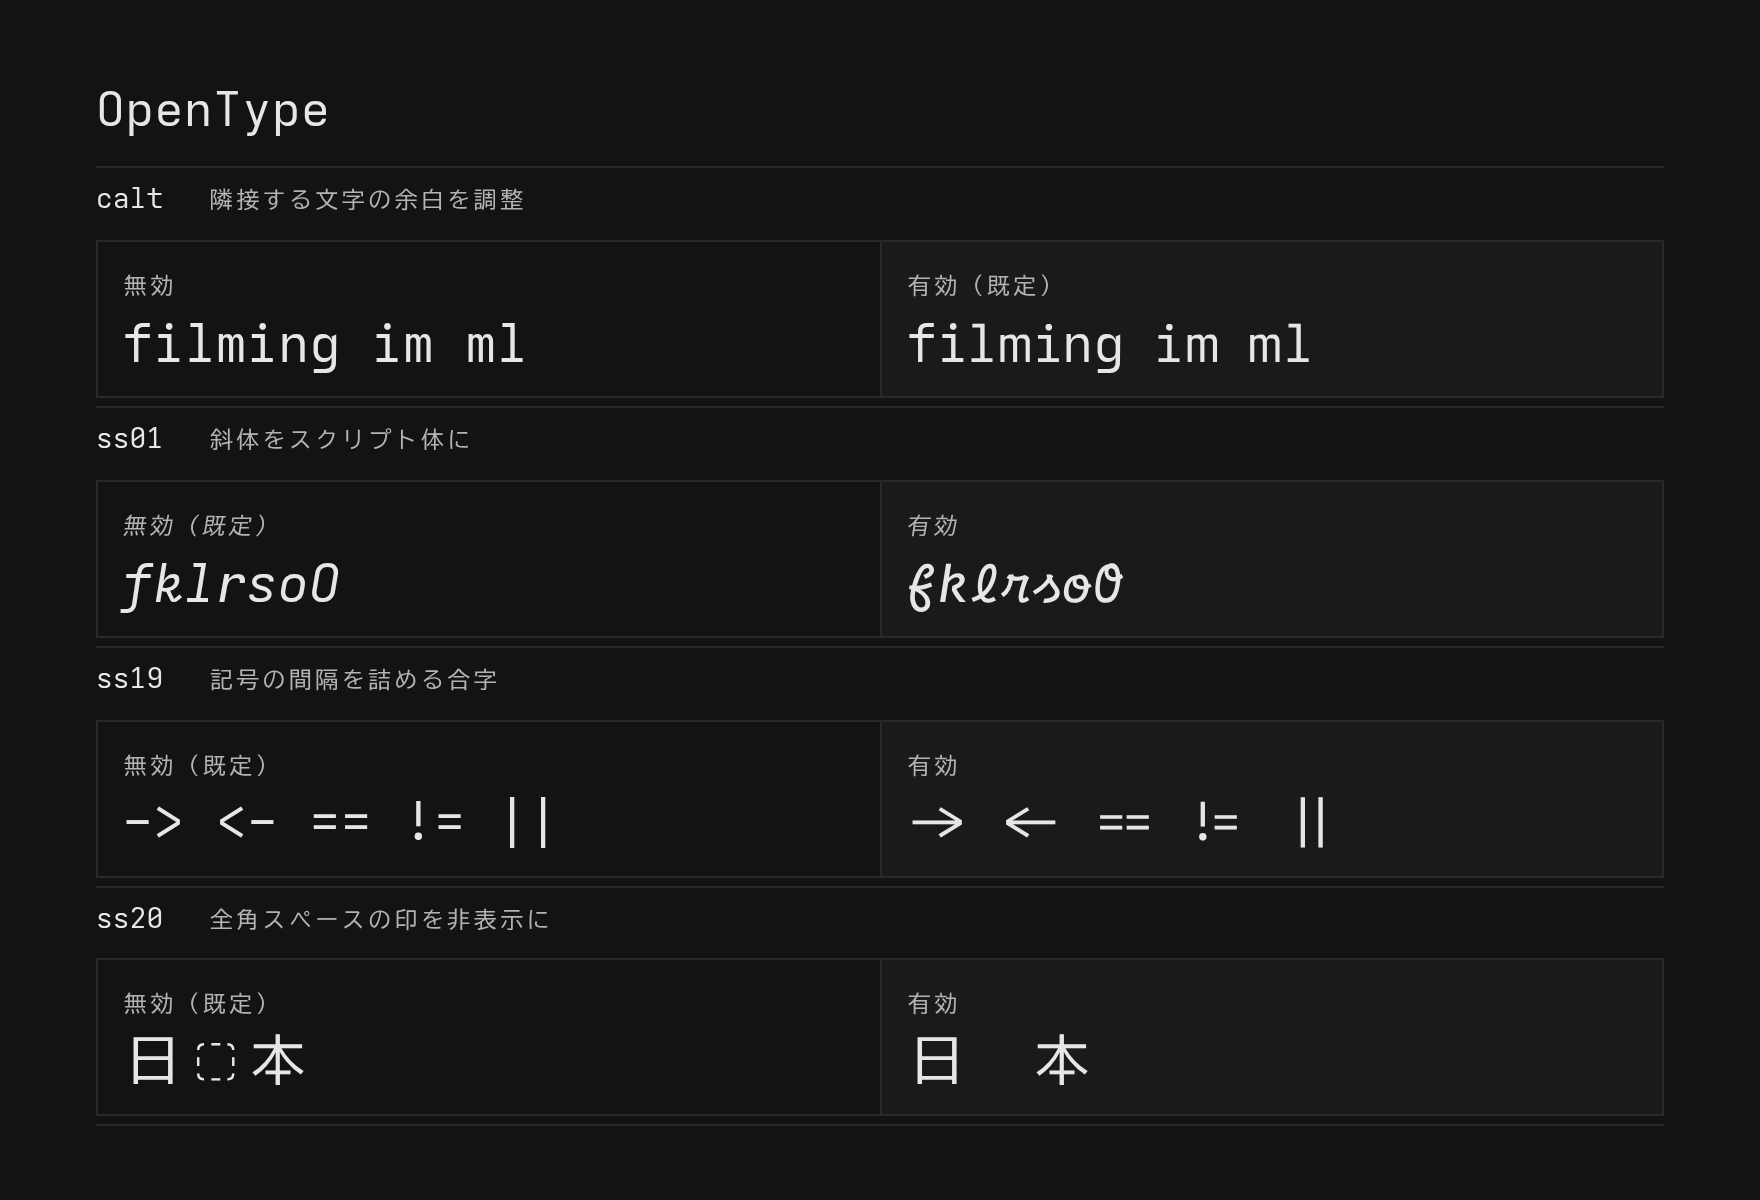
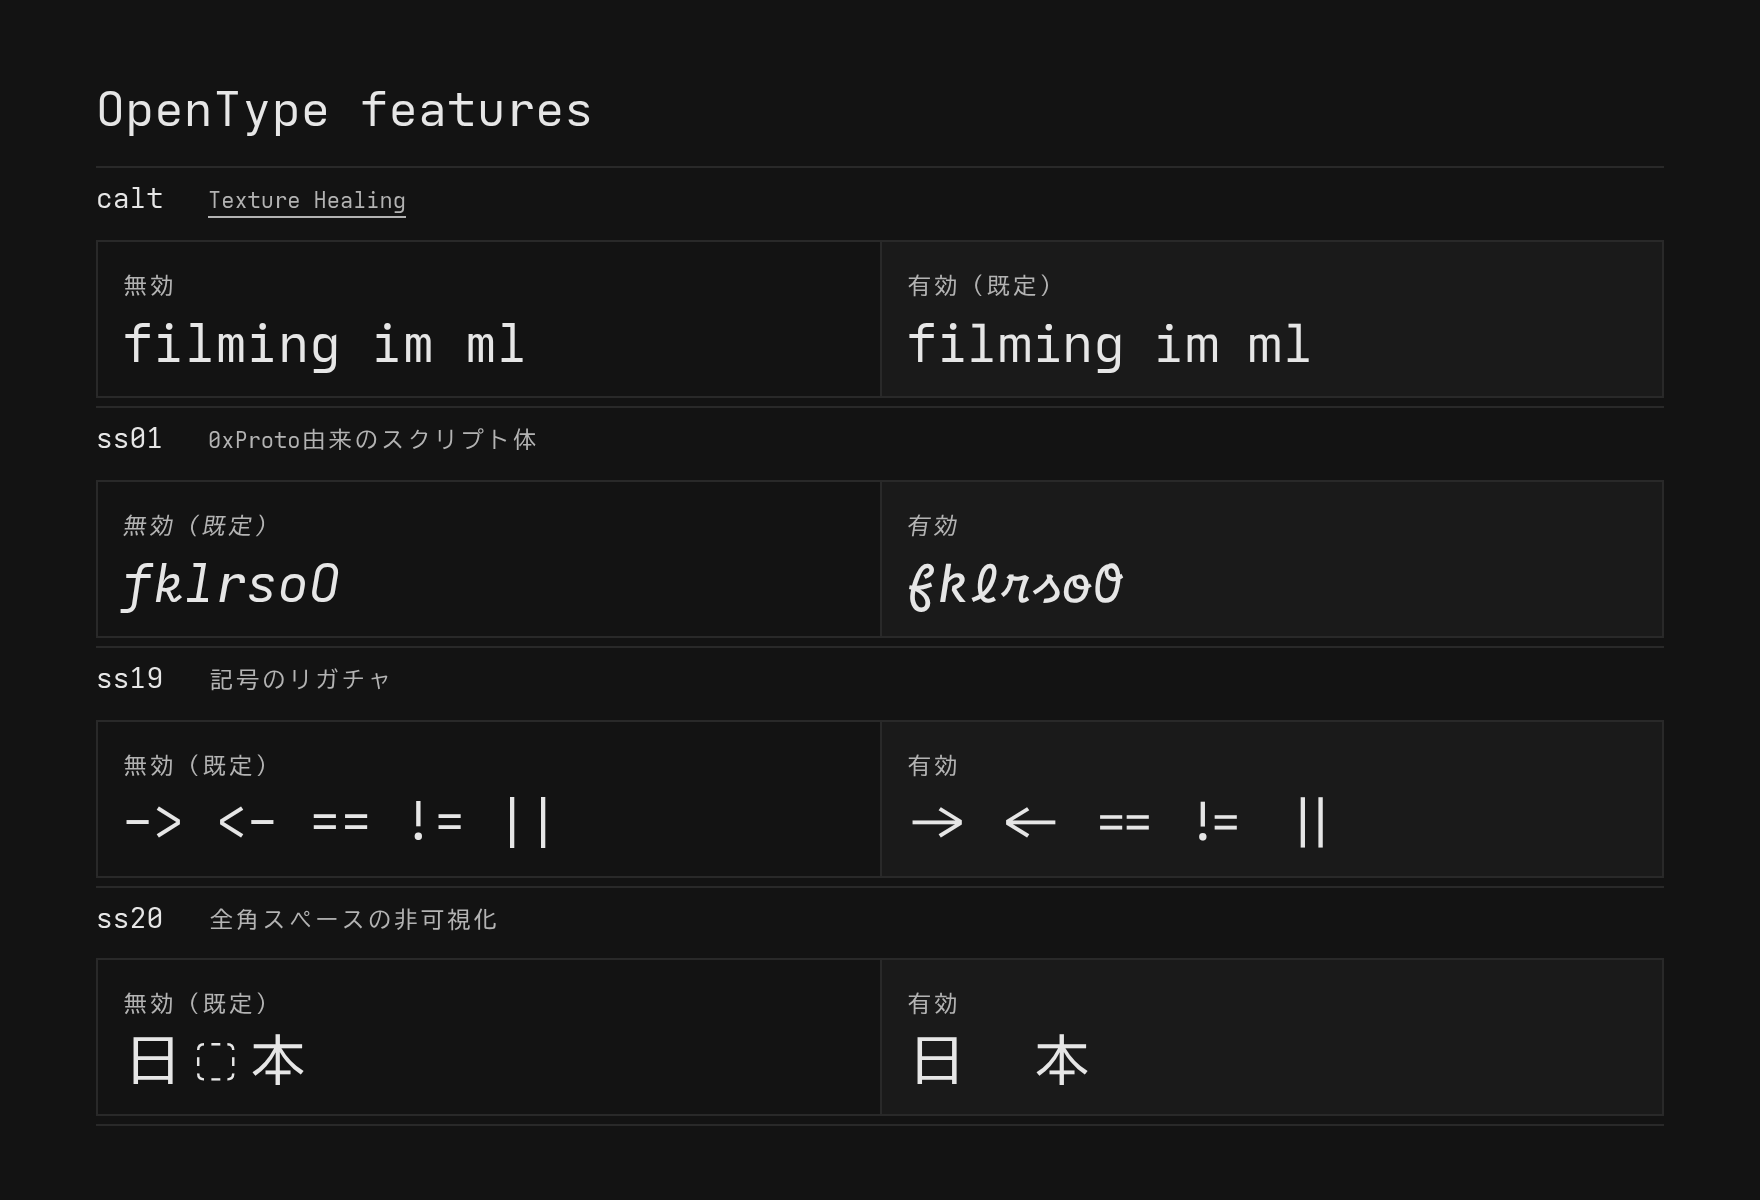
Limit the design sheet to adjusted glyphs
- Show only r, j, and hn with the Iosevka source overlaid
- Remove the imported-glyph table and explanatory notes
- Use switches for the OpenType feature toggles
- Rename the section to OpenType features

diff --git a/site/index.html b/site/index.html
@@ -34,7 +34,7 @@
     <nav aria-label="目次">
       <a href="#overview">概要</a>
       <a href="#compare">比較</a>
-      <a href="#design">設計</a><a href="#opentype">OpenType</a>
+      <a href="#design">設計</a><a href="#opentype">OpenType features</a>
       <a href="#characters">文字</a><a href="#download">ダウンロード</a>
     </nav>
   </details>
@@ -46,7 +46,6 @@
   </section>
   <section id="compare">
       <h2>比較</h2>
-      <p class="caption">同じサイズ・同じ文字列で、Iosevka SS03 / JetBrains Mono / Consolas と比較。<span class="web-only">中央のバーをドラッグ、右のメニューで比較対象を切り替え。</span></p>
       <div class="compare-stage" data-target="iosevka" style="--split: .5">
         <div class="compare-labels">
           <span>Sotiak Mono</span>
@@ -76,21 +75,16 @@
   </section>
   <section id="design" data-sheet="design" class="print-page">
     <h2>設計</h2>
-    <p class="caption">字形の細部。輪郭とメトリクスはビルド済みフォントから取得。</p>
-    <div class="align-card">
-      {{alignment}}
-      <p>f・t・i・j の横棒は x-height にそろいます。</p>
-    </div>
+    <div class="align-card">{{alignment}}</div>
     <div class="design-grid">{{design}}</div>
   </section>
   <div data-sheet="features" class="print-page">
     <section id="opentype">
-      <h2>OpenType</h2>
-      <p class="caption">チェックを切り替えて字形を比較できます。</p>
-      <div class="feature calt"><h3>calt <span>隣接する文字の余白を調整</span></h3><input id="calt" type="checkbox" checked><label for="calt">有効（既定）</label><p class="live">filming im ml</p><div class="static-pair"><div><small>無効</small><p style='font-feature-settings:"calt" 0'>filming im ml</p></div><div><small>有効（既定）</small><p style='font-feature-settings:"calt" 1'>filming im ml</p></div></div></div>
-      <div class="feature ss01"><h3>ss01 <span>斜体をスクリプト体に</span></h3><input id="ss01" type="checkbox"><label for="ss01">有効</label><p class="live italic">fklrsoO</p><div class="static-pair italic"><div><small>無効（既定）</small><p>fklrsoO</p></div><div><small>有効</small><p style='font-feature-settings:"ss01" 1'>fklrsoO</p></div></div></div>
-      <div class="feature ss19"><h3>ss19 <span>記号の間隔を詰める合字</span></h3><input id="ss19" type="checkbox"><label for="ss19">有効</label><p class="live">-&gt; &lt;- == != ||</p><div class="static-pair"><div><small>無効（既定）</small><p>-&gt; &lt;- == != ||</p></div><div><small>有効</small><p style='font-feature-settings:"ss19" 1'>-&gt; &lt;- == != ||</p></div></div></div>
-      <div class="feature ss20"><h3>ss20 <span>全角スペースの印を非表示に</span></h3><input id="ss20" type="checkbox"><label for="ss20">有効</label><p class="live">日　本</p><div class="static-pair"><div><small>無効（既定）</small><p>日　本</p></div><div><small>有効</small><p style='font-feature-settings:"ss20" 1'>日　本</p></div></div></div>
+      <h2>OpenType features</h2>
+      <div class="feature calt"><h3>calt <span><a href="https://github.com/githubnext/monaspace/blob/main/docs/Texture%20Healing.md">Texture Healing</a></span></h3><label class="switch"><input id="calt" type="checkbox" checked><span class="switch-track" aria-hidden="true"></span><span>有効（既定）</span></label><p class="live">filming im ml</p><div class="static-pair"><div><small>無効</small><p style='font-feature-settings:"calt" 0'>filming im ml</p></div><div><small>有効（既定）</small><p style='font-feature-settings:"calt" 1'>filming im ml</p></div></div></div>
+      <div class="feature ss01"><h3>ss01 <span>0xProto由来のスクリプト体</span></h3><label class="switch"><input id="ss01" type="checkbox"><span class="switch-track" aria-hidden="true"></span><span>有効</span></label><p class="live italic">fklrsoO</p><div class="static-pair italic"><div><small>無効（既定）</small><p>fklrsoO</p></div><div><small>有効</small><p style='font-feature-settings:"ss01" 1'>fklrsoO</p></div></div></div>
+      <div class="feature ss19"><h3>ss19 <span>記号のリガチャ</span></h3><label class="switch"><input id="ss19" type="checkbox"><span class="switch-track" aria-hidden="true"></span><span>有効</span></label><p class="live">-&gt; &lt;- == != ||</p><div class="static-pair"><div><small>無効（既定）</small><p>-&gt; &lt;- == != ||</p></div><div><small>有効</small><p style='font-feature-settings:"ss19" 1'>-&gt; &lt;- == != ||</p></div></div></div>
+      <div class="feature ss20"><h3>ss20 <span>全角スペースの非可視化</span></h3><label class="switch"><input id="ss20" type="checkbox"><span class="switch-track" aria-hidden="true"></span><span>有効</span></label><p class="live">日　本</p><div class="static-pair"><div><small>無効（既定）</small><p>日　本</p></div><div><small>有効</small><p style='font-feature-settings:"ss20" 1'>日　本</p></div></div></div>
     </section>
   </div>
   <section id="characters" class="web-only" data-weight="regular"><h2>文字</h2><div class="char-controls"><div class="weights" role="group" aria-label="ウェイト"><button type="button" data-weight="regular" aria-pressed="true">Regular</button><button type="button" data-weight="bold" aria-pressed="false">Bold</button></div><label class="switch"><span>Italic</span><input id="characters-italic" type="checkbox"><span class="switch-track" aria-hidden="true"></span></label></div>{{characters}}</section>

diff --git a/site/style.css b/site/style.css
@@ -145,8 +145,7 @@ section h2 {
   letter-spacing: .01em;
 }
 h3 { font-size: 14px; font-weight: 400; }
-.caption, small, dt { color: var(--muted); font-size: 11px; }
-.caption { margin-bottom: 20px; line-height: 1.6; }
+small, dt { color: var(--muted); font-size: 11px; }
 .lead {
   margin-bottom: 12px;
   padding: 6px 0;
@@ -288,14 +287,14 @@ h3 { font-size: 14px; font-weight: 400; }
   border-bottom: 0;
 }
 .align-card .plan-frame { height: 170px; }
-.align-card p { margin: 6px 0 0; font-size: 11px; line-height: 1.5; }
 .design-card {
   padding: 14px 16px 12px;
   border-right: 1px solid var(--line);
   border-bottom: 1px solid var(--line);
 }
 .design-card:nth-child(2n) { border-right: 0; }
-.design-card:nth-last-child(-n+2) { border-bottom: 0; }
+.design-card:last-child { border-bottom: 0; }
+.design-card.wide { grid-column: 1 / -1; border-right: 0; }
 .plan-frame {
   position: relative;
   height: 140px;
@@ -308,6 +307,8 @@ h3 { font-size: 14px; font-weight: 400; }
 .plan-guides { color: var(--accent); }
 .plan-glyph { color: var(--ink); }
 .plan-glyph .bar-band { color: var(--accent); }
+.plan-original { color: var(--accent); opacity: .9; }
+.plan-original path { vector-effect: non-scaling-stroke; stroke-width: 1; }
 .plan-labels { position: absolute; inset: 0; pointer-events: none; }
 .plan-labels span {
   position: absolute;
@@ -332,7 +333,6 @@ html[data-italic] :is(.design-card, .align-card) .plan-italic { display: block; 
 .feature:last-child { border-bottom: 1px solid var(--line); }
 .feature h3 { margin-bottom: 10px; }
 .feature h3 span { margin-left: 14px; color: var(--muted); font-size: 11px; }
-.feature label { margin-left: 6px; color: var(--muted); font-size: 11px; }
 .feature .live { margin: 12px 0 0; font-size: 34px; line-height: 1.35; }
 input[type="checkbox"] {
   appearance: none;
@@ -347,10 +347,10 @@ input[type="checkbox"] {
 }
 input[type="checkbox"]:checked { background: var(--ink); box-shadow: inset 0 0 0 2px var(--paper); }
 .calt .live { font-feature-settings: "calt" 0; }
-.calt input:checked ~ .live { font-feature-settings: "calt" 1; }
-.ss01 input:checked ~ .live { font-feature-settings: "ss01" 1; }
-.ss19 input:checked ~ .live { font-feature-settings: "ss19" 1; }
-.ss20 input:checked ~ .live { font-feature-settings: "ss20" 1; }
+.calt:has(input:checked) .live { font-feature-settings: "calt" 1; }
+.ss01:has(input:checked) .live { font-feature-settings: "ss01" 1; }
+.ss19:has(input:checked) .live { font-feature-settings: "ss19" 1; }
+.ss20:has(input:checked) .live { font-feature-settings: "ss20" 1; }
 .static-pair {
   display: none;
   grid-template-columns: 1fr 1fr;
@@ -432,6 +432,7 @@ html[data-italic] :is(.feature .live, .static-pair p, .characters) { font-style:
   .design-grid { grid-template-columns: 1fr; }
   .design-card { border-right: 0; border-bottom: 1px solid var(--line); }
   .design-card:last-child { border-bottom: 0; }
+  .design-card.wide { grid-column: auto; }
   .plan-frame { height: 120px; }
   .feature h3 span { display: block; margin: 4px 0 0; }
   .feature .live { font-size: 26px; }
@@ -450,16 +451,13 @@ html[data-poster] h2 { font-size: 24px; margin-bottom: 12px; }
 html[data-poster] #compare { display: none; }
 html[data-poster] .align-card { padding: 7px 12px 6px; }
 html[data-poster] .align-card .plan-frame { height: 100px; }
-html[data-poster] .align-card p { line-height: 1.4; }
 html[data-poster] .plan-labels span { font-size: 8px; }
 html[data-poster] .design-card { padding: 7px 12px 6px; }
 html[data-poster] .plan-frame { height: 76px; background-size: 14px 14px; }
 html[data-poster] .feature { padding: 4px 0; }
-html[data-poster="features"] .caption { display: none; }
 html[data-poster] .feature h3 { margin-bottom: 4px; }
 html[data-poster] .static-pair p { margin-top: 2px; font-size: 26px; line-height: 1.2; }
 html[data-poster] .static-pair small { font-size: 11px; }
-html[data-poster] #opentype > .caption { margin-bottom: 8px; }
 html[data-poster] .feature input, html[data-poster] .feature label, html[data-poster] .live { display: none; }
 html[data-poster] .static-pair { display: grid; margin-top: 8px; }
 @page { size: A4; margin: 20mm; }
@@ -494,6 +492,5 @@ html[data-poster] .static-pair { display: grid; margin-top: 8px; }
   .compare-target-label { display: inline; }
   .compare-range { display: none; }
   .compare-image { filter: none; }
-  .caption, small, dt { font-size: 11px; }
-  #opentype > .caption { display: none; }
+  small, dt { font-size: 11px; }
 }

diff --git a/src/mono/site.py b/src/mono/site.py
@@ -10,7 +10,7 @@ from fontTools.pens.svgPathPen import SVGPathPen
 from fontTools.ttLib import TTFont
 
 from mono.build import FILE_PREFIX, project_version
-from mono.paths import DIST, LICENSE, LICENSES, PROJECT_ROOT
+from mono.paths import DIST, INPUT, LICENSE, LICENSES, PROJECT_ROOT
 
 SITE = DIST / "site"
 STYLES = {
@@ -19,7 +19,7 @@ STYLES = {
     "Bold": (700, "normal"),
     "BoldItalic": (700, "italic"),
 }
-DESIGNS = ["r", "g", "j", "Ww", "t", "M"]
+DESIGNS = ["r", "j", "hn"]
 CHARACTERS = {
     "Basic latin": string.ascii_uppercase + "\n" + string.ascii_lowercase,
     "数字・記号": string.digits + string.punctuation,
@@ -57,7 +57,7 @@ class TextCollector(HTMLParser):
             self.characters.update(data)
 
 
-def design_svg(font, text, variant, *, highlight_bar=False, label_guides=False):
+def design_svg(font, text, variant, *, original_font=None, highlight_bar=False, label_guides=False):
     glyphs = font.getGlyphSet()
     cmap = font.getBestCmap()
     paths = []
@@ -67,6 +67,23 @@ def design_svg(font, text, variant, *, highlight_bar=False, label_guides=False):
         glyphs[cmap[ord(char)]].draw(pen)
         paths.append(f'<path transform="translate({x},0)" d="{pen.getCommands()}"/>')
         x += font["hmtx"][cmap[ord(char)]][0]
+
+    original_paths = []
+    if original_font is not None:
+        original_glyphs = original_font.getGlyphSet()
+        original_cmap = original_font.getBestCmap()
+        x = 0
+        for char in text:
+            pen = SVGPathPen(original_glyphs)
+            original_glyphs[original_cmap[ord(char)]].draw(pen)
+            original_paths.append(f'<path transform="translate({x},0)" d="{pen.getCommands()}"/>')
+            x += font["hmtx"][cmap[ord(char)]][0]
+    original = ""
+    if original_paths:
+        original = (
+            '<g class="plan-original" transform="scale(1,-1)" fill="none" '
+            'stroke="currentColor">' + "".join(original_paths) + "</g>"
+        )
 
     upm = font["head"].unitsPerEm
     top, bottom = -upm, int(upm * 0.3)
@@ -119,26 +136,41 @@ def design_svg(font, text, variant, *, highlight_bar=False, label_guides=False):
         f'<svg class="plan-glyph" viewBox="{view}" role="img" '
         f'aria-label="{html.escape(text)}の輪郭とメトリクス（{variant}）">'
         f"{highlight}"
-        f'<g transform="scale(1,-1)" fill="currentColor">{"".join(paths)}</g></svg>'
+        f'<g transform="scale(1,-1)" fill="currentColor">{"".join(paths)}</g>{original}</svg>'
         f"{labels}</div>"
     )
 
 
-def render_design(font, italic_font):
+def render_design(font, italic_font, original_regular, original_italic):
     cards = []
     for text in DESIGNS:
         views = "".join(
-            design_svg(face, text, variant)
-            for face, variant in ((font, "roman"), (italic_font, "italic"))
+            design_svg(face, text, variant, original_font=original)
+            for face, original, variant in (
+                (font, original_regular, "roman"),
+                (italic_font, original_italic, "italic"),
+            )
         )
-        cards.append(f'<article class="design-card">{views}</article>')
+        cards.append(
+            f'<article class="design-card{" wide" if text == "hn" else ""}">{views}</article>'
+        )
     return "\n".join(cards)
 
 
-def render_alignment(font, italic_font):
+def render_alignment(font, italic_font, original_regular, original_italic):
     return "".join(
-        design_svg(face, "ftij", variant, highlight_bar=True, label_guides=True)
-        for face, variant in ((font, "roman"), (italic_font, "italic"))
+        design_svg(
+            face,
+            "ftij",
+            variant,
+            original_font=original,
+            highlight_bar=True,
+            label_guides=True,
+        )
+        for face, original, variant in (
+            (font, original_regular, "roman"),
+            (italic_font, original_italic, "italic"),
+        )
     )
 
 
@@ -165,6 +197,8 @@ def build_site():
     with (
         TTFont(DIST / f"{FILE_PREFIX}-Regular.ttf") as font,
         TTFont(DIST / f"{FILE_PREFIX}-Italic.ttf") as italic,
+        TTFont(INPUT / "Iosevka-Regular.ttf") as original,
+        TTFont(INPUT / "Iosevka-Italic.ttf") as original_italic,
     ):
         cmap = font.getBestCmap()
         groups = []
@@ -178,8 +212,8 @@ def build_site():
             )
         values = {
             "version": project_version(),
-            "design": render_design(font, italic),
-            "alignment": render_alignment(font, italic),
+            "design": render_design(font, italic, original, original_italic),
+            "alignment": render_alignment(font, italic, original, original_italic),
             "characters": "\n".join(groups),
         }
     for key, value in values.items():

diff --git a/src/mono/screenshots.py b/src/mono/screenshots.py
@@ -5,7 +5,7 @@ import shutil
 from mono.paths import IMAGES
 from mono.site import SITE
 
-SHEETS = {"hero": 220, "design": 560, "features": 600}
+SHEETS = {"hero": 220, "design": 420, "features": 600}
 
 
 def render():
